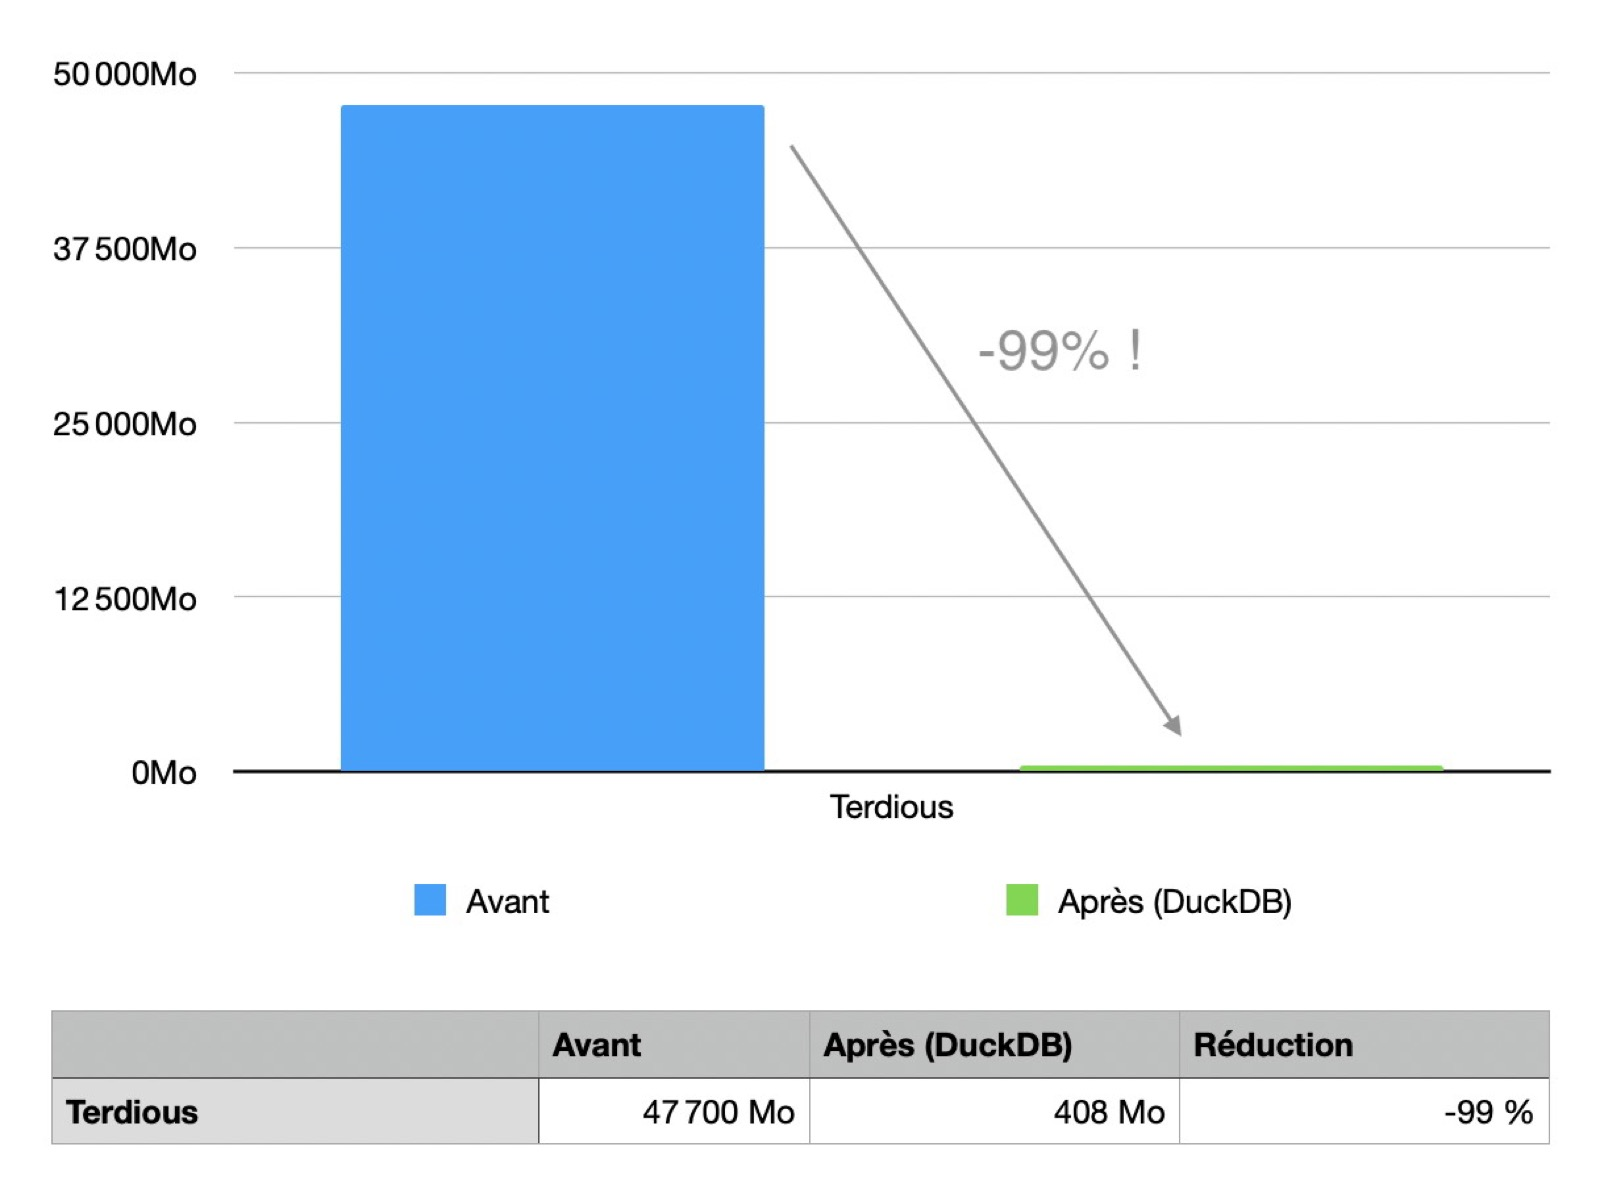
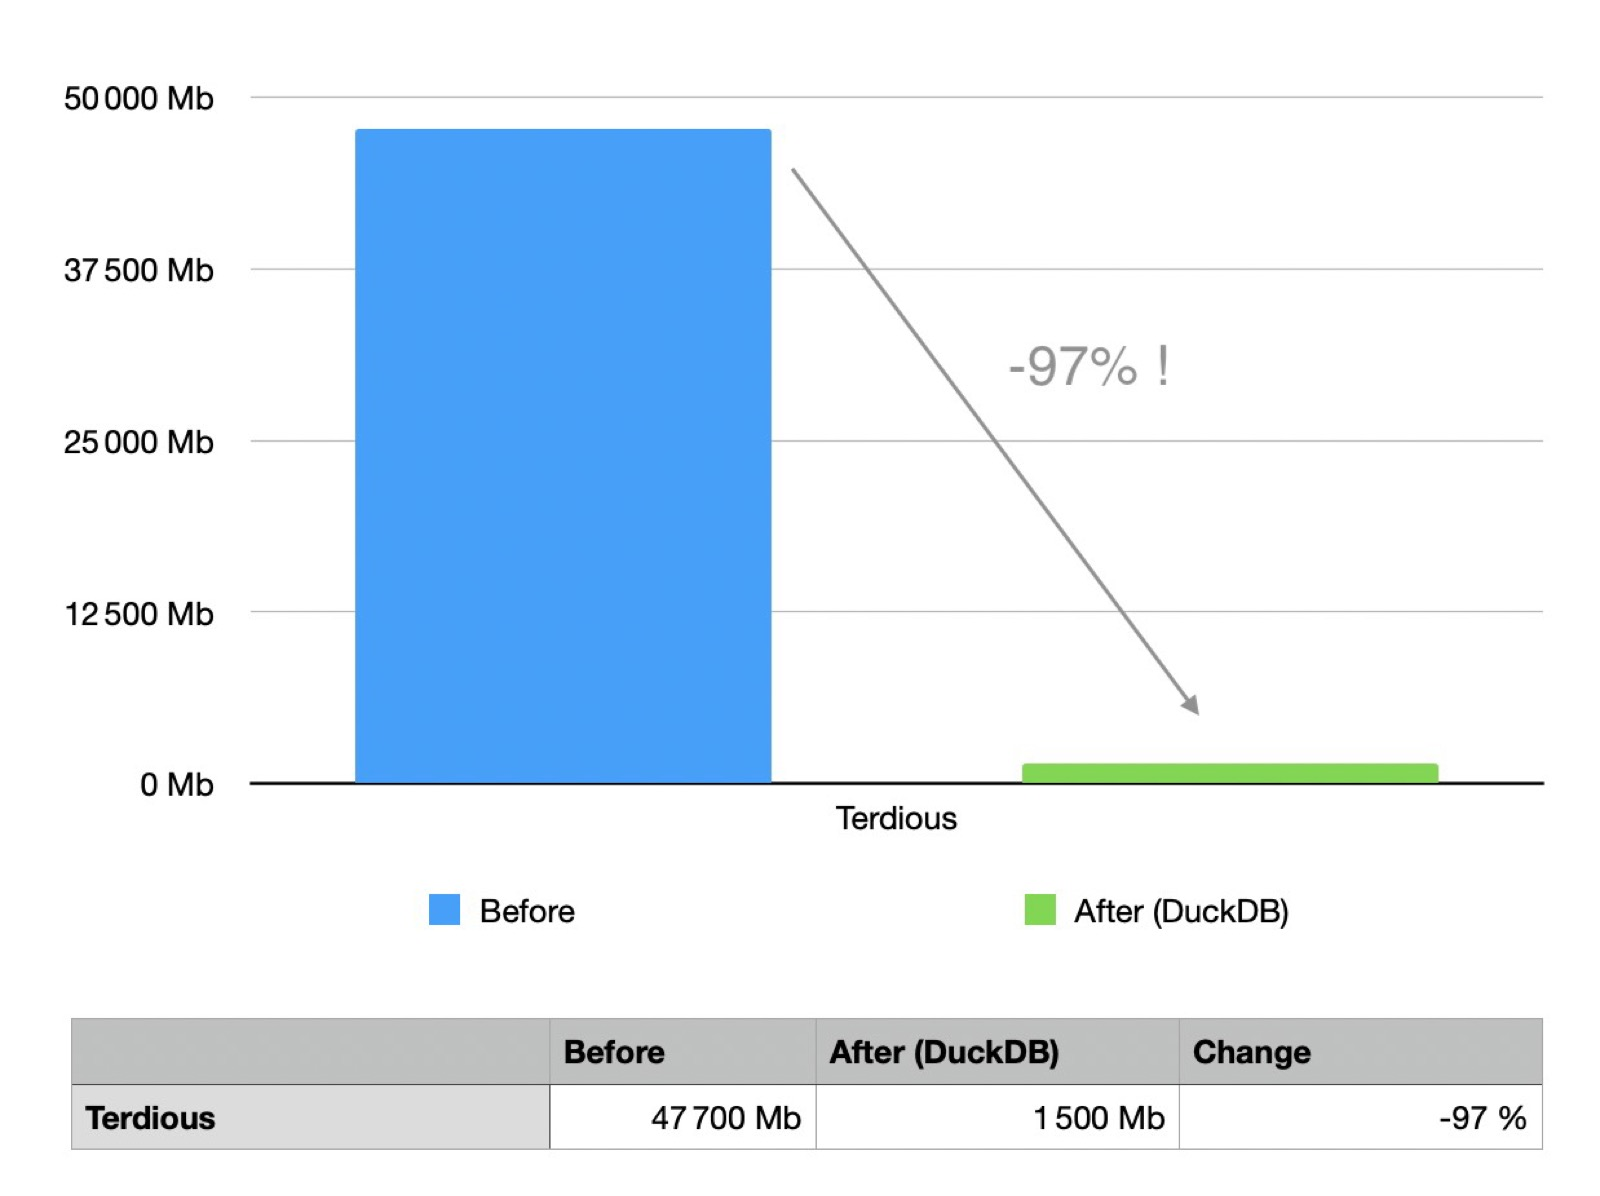
Migration content + spell check

diff --git a/i18n/fr/docusaurus-plugin-content-blog/2024-08-26-duckdb-launch.md b/i18n/fr/docusaurus-plugin-content-blog/2024-08-26-duckdb-launch.md
@@ -1,5 +1,5 @@
 ---
-title: "DuckDB : Des performances extrêmes et une base de données 99% plus légère !"
+title: "DuckDB : Des performances extrêmes et une base de données 97% plus légère !"
 description: Une mise à jour majeure de Gladys qui va révolutionner votre utilisation
 author: Pierre-Gilles Leymarie
 author_title: Fondateur de Gladys Assistant
@@ -11,21 +11,19 @@ slug: gladys-and-duckdb
 
 Salut à tous,
 
-Aujourd'hui est un grand jour : je sors une version majeure de Gladys qui va améliorer drastiquement l'expérience Gladys et qui nous permet d'être à la pointe en terme de technologie de stockage de données.
+Aujourd'hui est un grand jour : je sors une version majeure de Gladys qui va améliorer drastiquement l'expérience Gladys et qui nous permet d'être à la pointe en termes de technologie de stockage de données.
 
 Imaginez...
 
-➡ Votre base de donnée Gladys qui passe de 47 Go à 400 Mo...\
+➡ Votre base de donnée Gladys qui passe de 47 Go à 1.5 Go...\
 ➡ Vos graphiques qui s'affichent instantanément, même sur de longues périodes de données...\
-➡ Vos sauvegardes Gladys Plus qui s'exécutent à la vitesse de l'éclair...
+➡ Vos sauvegardes Gladys Plus plus légères et plus rapides...
 
-🔄 Le tout, dans une mise à jour automatique sans action de votre part !
-
-Et bien on l'a fait !
+Et bien, on l'a fait !
 
 ## La technologie : DuckDB
 
-[DuckDB](https://duckdb.org/) est une système de base de donnée OLAP, qui comme SQLite stocke les données dans un seul fichier.
+[DuckDB](https://duckdb.org/) est un système de base de donnée OLAP, qui comme SQLite stocke les données dans un seul fichier.
 
 <!--truncate-->
 
@@ -37,11 +35,11 @@ DuckDB avec son approche OLAP + fichier est unique en son genre, et je surveilla
 
 Jusque-là, DuckDB était en alpha et n'était donc pas prêt à être utilisée en production sur un produit aussi critique que Gladys.
 
-Mais en Juin, DuckDB est enfin sorti en 1.0, et a clairement annoncé que l'API et le format de fichier n'allait plus changer de façon majeure, et ainsi DuckDB devenait utilisable en production.
+Mais en juin, DuckDB est enfin sorti en 1.0, et a clairement annoncé que l'API et le format de fichier n'allait plus changer de façon majeure, et ainsi DuckDB devenait utilisable en production.
 
 ## L'intégration dans Gladys
 
-Suite au lancement de la 1.0, j'ai directement commencé le développement dans Gladys, et j'ai fais un live YouTube pour tester la techno avec vous :
+Suite au lancement de la 1.0, j'ai directement commencé le développement dans Gladys et j'ai fait un live YouTube pour tester la techno avec vous :
 
 <div class="youtubeVideoContainerInBlog">
     <iframe  src="https://www.youtube.com/embed/EtEfyS6uHoE" title="YouTube video player" frameborder="0" allow="accelerometer; autoplay; clipboard-write; encrypted-media; gyroscope; picture-in-picture; web-share" allowfullscreen></iframe>
@@ -57,7 +55,7 @@ En gros, il fallait :
 - Modifier tout le code d'écriture des valeurs de capteurs historiques
 - Re-écrire les requêtes d'affichage de graphiques du tableau de bord
 - Revoir tout le processus de sauvegarde Gladys Plus
-- Enfin, tester avec des cas réel la migration et voir si DuckDB fonctionne bien au quotidien sur des vrais instances
+- Enfin, tester avec des cas réels la migration et voir si DuckDB fonctionne bien au quotidien sur des vraies instances.
 
 Bref, il y avait du boulot !!
 
@@ -67,7 +65,7 @@ Le 6 août, j'ai lancé les tests "réels" en commençant sur mon installation G
 
 Mon instance a une quarantaine d'appareils, et est live depuis février 2024.
 
-J'avais une base de donnée de 905 Mo, pour 996 000 états de capteurs, qui une fois migré...
+J'avais une base de donnée de 905 Mo, pour 996 000 états de capteurs, qui une fois migré est passé à :
 
 ![Pourcentage de réduction SQLite vers DuckDB Pierre-Gilles](../../../static/img/articles/fr/gladys-and-duckdb/pierregilles-duckdb.jpg)
 
@@ -79,17 +77,23 @@ Chez le plus gros utilisateur Gladys, Terdious, avec 80 millions d'états pour u
 
 Bref, c'est assez révolutionnaire !
 
+Depuis maintenant 20 jours, cette nouvelle version tourne chez moi et d'autres utilisateurs Gladys sans aucuns soucis.
+
+Les graphiques sont beaucoup plus rapides, Terdious a remarqué des temps de chargement 2 fois plus rapide sur son mini-PC.
+
+Sur son Pi 4, c'est encore plus impressionnant, les tableaux de bords comportant des graphiques s'affichent en 150 ms désormais contre 1 à 5 secondes avant.
+
 ## Comment ça marche sous le capot ?
 
-A ce niveau-là, vous devez vous dire : mais c'est de la magie là ?
+À ce niveau-là, vous devez vous dire : mais c'est de la magie là ?
 
 En fait, pas vraiment :
 
-- Déjà, SQLite n'étant pas adapté pour cet usage, nous étions obligé de stocker l'information 4 fois dans la base de donnée: une fois pour la donnée "brute", une fois pour des données agrégées mensuels, une fois pour des données agrégées journalières, et une fois pour des données agrégées horaires. Cela nous permettait d'aller chercher plus vite dans des jeux de données réduits en amont.
-- Ensuite, côté SQLite, j'avais ajouté des index très précis pour répondre à des requêtes du style "Montre moi les valeurs du capteur de température XX entre ce matin et maintenant". Ces index multi-colonnes permettaient d'avoir des bonnes performances, mais étaient gourmand en stockage (là encore, c'est de la redondance)
+- Déjà, SQLite n'étant pas adapté pour cet usage, nous étions obligés de stocker l'information 4 fois dans la base de donnée : une fois pour la donnée "brute", une fois pour des données agrégées mensuels, une fois pour des données agrégées journalières, et une fois pour des données agrégées horaires. Cela nous permettait d'aller chercher plus vite dans des jeux de données réduits en amont.
+- Ensuite, côté SQLite, j'avais ajouté des index très précis pour répondre à des requêtes du style "Montre-moi les valeurs du capteur de température XX entre ce matin et maintenant". Ces index multicolonnes permettaient d'avoir de bonnes performances, mais étaient gourmands en stockage (là encore, c'est de la redondance).
 - Enfin, DuckDB fait un travail formidable. Les données sont compressées aggressivement (Si ça vous intéresse, il y a [article sur leur blog](https://duckdb.org/2022/10/28/lightweight-compression.html)).
 
-Par exemple, dans le cas de Gladys, si vous avez un capteur binaire (capteur d'ouverture de porte, de mouvement, de fuite, etc...), les données ne sont que des 0 et des 1 : il n'y a que 2 valeurs possibles.
+Par exemple, dans le cas de Gladys, si vous avez un capteur binaire (capteur d'ouverture de porte, de mouvement, de fuite, etc.), les données ne sont que des 0 et des 1 : il n'y a que 2 valeurs possibles.
 
 Ce genre de jeu de donnée est très facile à compresser :
 
@@ -97,11 +101,9 @@ Ce genre de jeu de donnée est très facile à compresser :
 
 ## Comment mettre à jour ?
 
-Gladys va automatiquement se mettre à jour chez vous, sans que vous n'ayez rien à faire.
+Gladys va normalement se mettre à jour automatiquement si vous utilisez Watchtower.
 
 Si vous avez installé Gladys avec Docker, vérifiez que vous utilisez bien Watchtower. Voir la [documentation](/fr/docs/installation/docker#mise-à-jour-automatique-avec-watchtower).
-
-Avec Watchtower, Gladys se mettra automatiquement à jour.
 
 Si vous êtes impatient et que vous savez ce que vous faites, il est aussi possible de lancer Watchtower manuellement en "one-shot" :
 
@@ -114,6 +116,56 @@ docker run --rm \
 
 (Pensez au sudo si vous faites tourner Gladys en tant qu'administrateur)
 
+Une fois Gladys à jour en `v4.45.0`, il y a plusieurs étapes à faire avant de voir votre DB réduite.
+
+## La migration
+
+Dès que votre instance se sera mise à jour, la migration vers DuckDB va se lancer.
+
+En haut de votre tableau de bord, vous verrez un message :
+
+![Migration vers DuckDB](../../../static/img/articles/fr/gladys-and-duckdb/duckdb-migration.png)
+
+Pendant cette migration, votre instance peut être ralentie et vos graphiques ne seront pas disponibles.
+
+Vous pouvez retrouver l'état de la migration dans les "Paramètres → Systèmes" :
+
+![Migration vers DuckDB Récapitulatif](../../../static/img/articles/fr/gladys-and-duckdb/duckdb-migration-recap.png)
+
+Une fois la migration terminée, la ligne "Migration effectuée" passera de "Non" à "Oui".
+
+Prenez un moment pour parcourir Gladys et vérifier que tous vos graphiques semblent bons.
+
+Si c'est le cas, vous pouvez alors purger les états SQLite en cliquant sur le bouton rouge "Purger les états SQLite", ce qui lancera une tâche :
+
+![Purge SQLite](../../../static/img/articles/fr/gladys-and-duckdb/sqlite-state-purge.png)
+
+Pendant cette tâche, votre instance Gladys sera un peu ralentie, ce qui est normal.
+
+Suivant le nombre d'états dans votre base de donnée et la vitesse de votre disque, cette tâche peut prendre quelques heures, voire des jours si vous avez une grosse DB.
+
+Gladys reste utilisable, mais ralentie !
+
+Enfin, une fois cette purge terminée, vous devrez faire un nettoyage de la DB SQLite pour que le fichier sur votre disque soit finalement réduit.
+
+Pour cela, cliquez sur le bouton "Nettoyer la base de donnée" :
+
+![Nettoyer la base de donnée](../../../static/img/articles/fr/gladys-and-duckdb/clean-db.png)
+
+Cette tâche est **bloquante** et Gladys ne sera pas disponible pendant le nettoyage.
+
+Enfin, une fois la tâche terminée, redémarrez Gladys.
+
+C'est bon, vous devriez avoir une base de donnée beaucoup plus petite et une instance Gladys bien plus rapide !
+
+## Conclusion
+
+J'espère que cette mise à jour aura chez vous les mêmes résultats que chez tous les testeurs !
+
+En tout cas, je suis persuadé que cette mise à jour va révolutionner l'utilisation de Gladys, et je suis preneur de vos retours.
+
+Merci encore à tous les testeurs qui ont aidé au développement 🙏
+
 ## Se lancer sur Gladys ?
 
 Si tu veux te lancer sur Gladys et que tu n'as pas de matériel, je lance un kit de démarrage inédit !
@@ -121,7 +173,7 @@ Si tu veux te lancer sur Gladys et que tu n'as pas de matériel, je lance un kit
 Je te propose :
 
 - Un mini-PC surpuissant (le même que j'ai chez moi)
-- Un accès à la formation Gladys (plein de contenu vidéos et écrit)
+- Un accès à la formation Gladys (plein de contenu vidéo et écrit)
 - Un an de Gladys Plus
 
 Le tout, pour un prix imbattable.
@@ -132,9 +184,9 @@ Pour en savoir plus, [c'est ici](/fr/starter-kit/) !
 
 Il y a plein de façons de supporter le projet :
 
-- Acheter [la formation Gladys (-25% actuellement !)](https://formation.gladysassistant.com/?coupon=DUCKDB_LAUNCH)
 - Participer aux discussions sur le forum, aider les nouveaux.
-- Contribuer au projet en proposant des nouvelles intégrations/fonctionnalités.
-- Améliorer la documentation, qui est open-source.
+- Contribuer au projet en proposant de nouvelles intégrations/fonctionnalités.
+- Améliorer la documentation, qui est opensource.
+- Profiter de la [la formation Gladys (-25% actuellement !)](https://formation.gladysassistant.com/?coupon=DUCKDB_LAUNCH)
 
 Merci à tous ceux qui supportent Gladys 🙏
